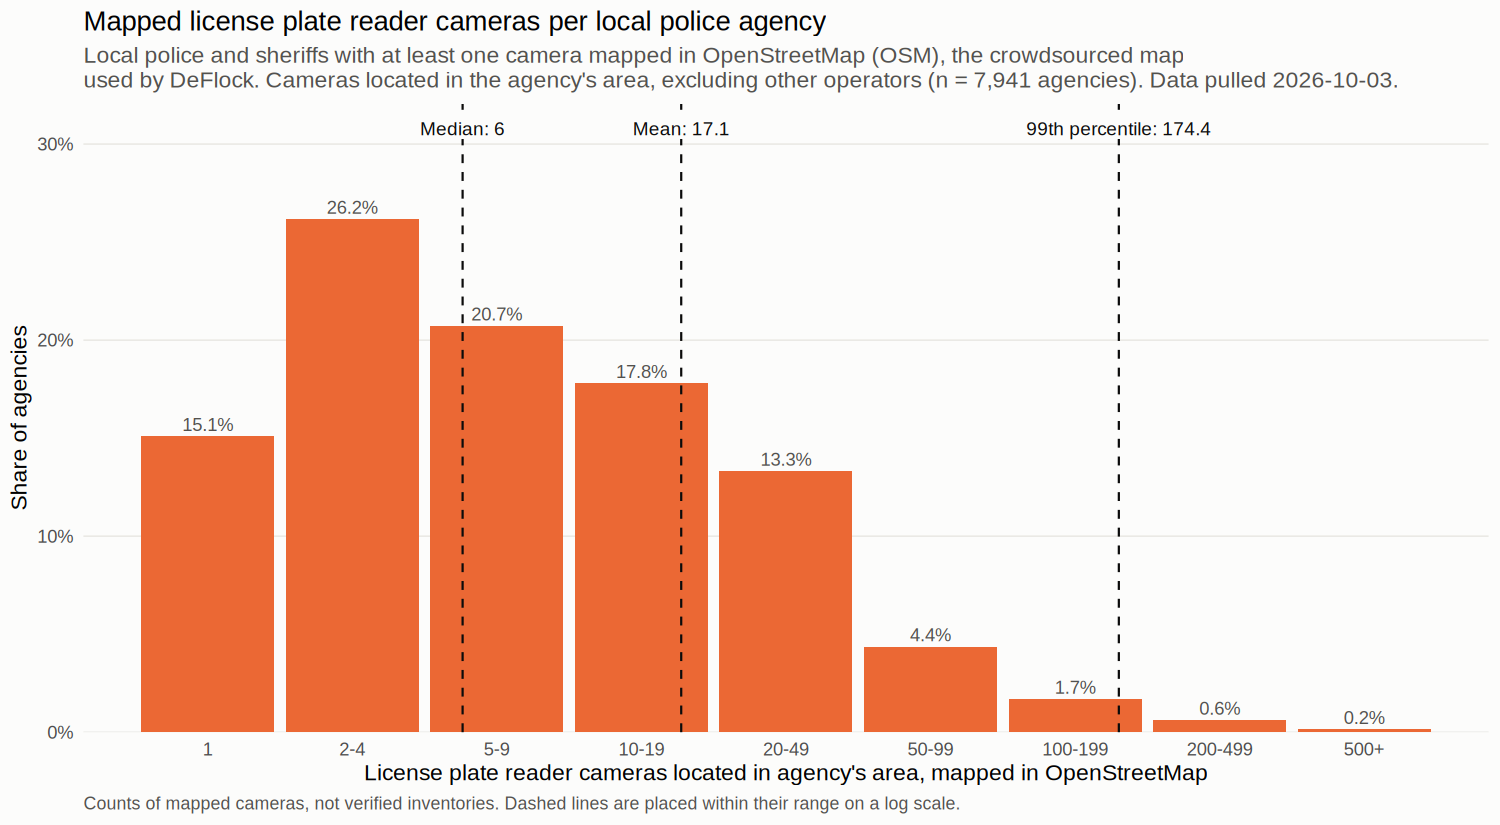
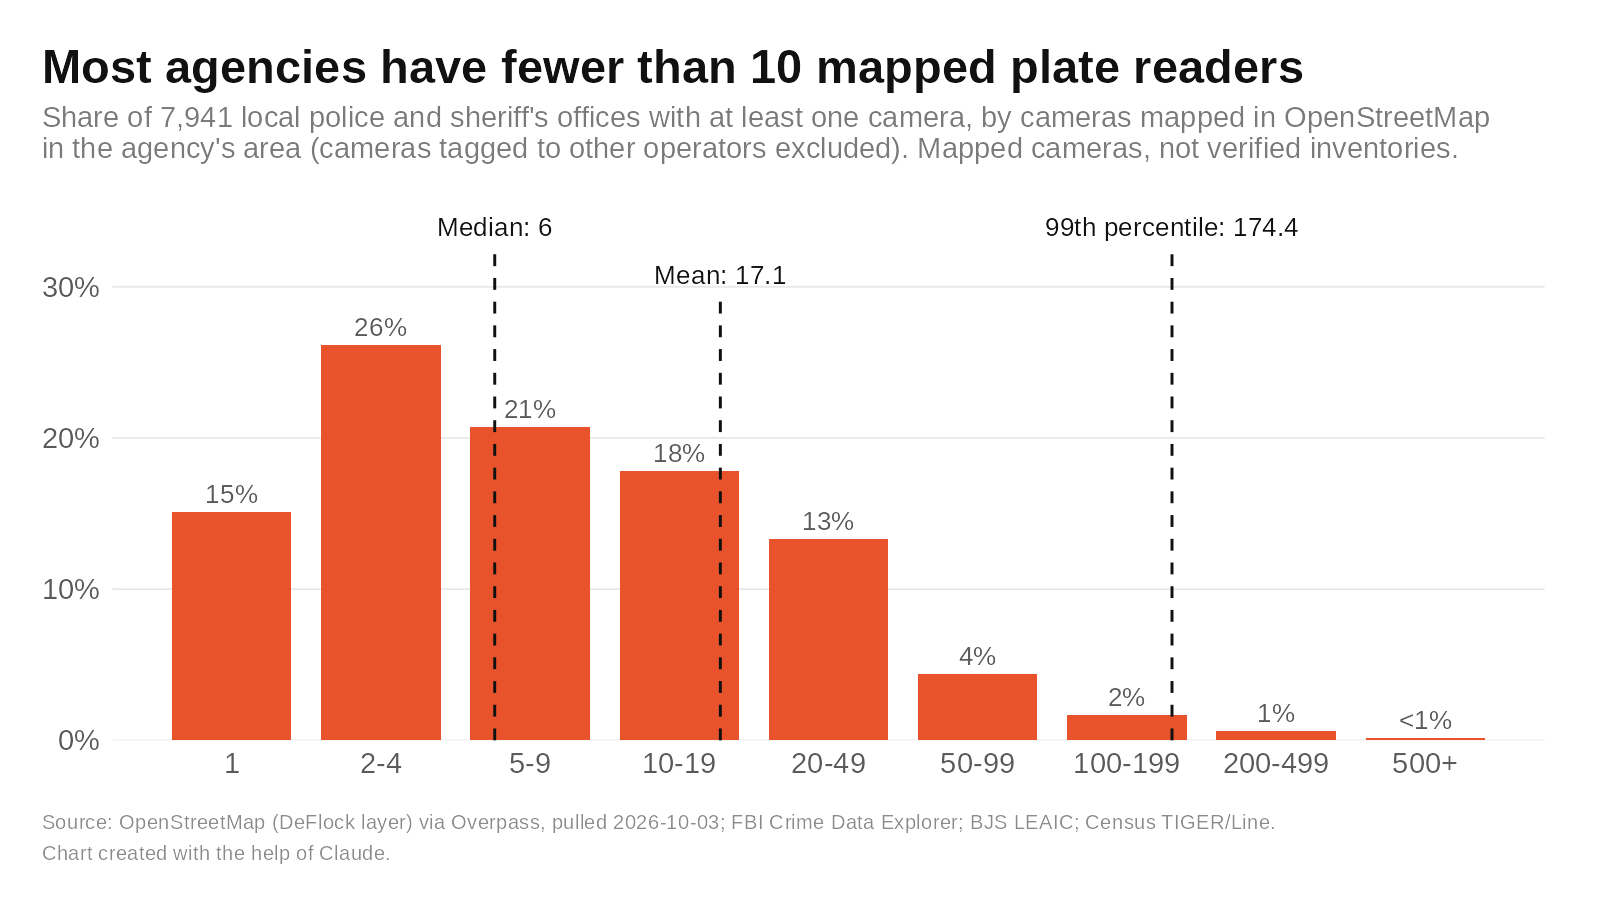
Causal Fallacy house style for all four charts; retitle charts; method write-up
- R/theme_cf.R: house theme (verbatim spec); charts at 1600x900 via ragg, Liberation Sans
- Titles state each chart's claim; reported-vs-mapped distribution chart now names both data sets
- docs/METHODS.md: three-paragraph method for the write-up
- README: ragg and fonts-liberation in the install line

Claude-Session: https://claude.ai/code/session_01Y5mCVQYXi5tXdbi3V8iikN

diff --git a/docs/METHODS.md b/docs/METHODS.md
@@ -1,0 +1,7 @@
+# Method
+
+**Data and measure.** The camera data come from OpenStreetMap, where volunteers (mostly through the DeFlock project) map automated license plate readers. On October 3, 2026, I pulled every node tagged as a license plate reader in the 50 states and DC: 143,157 cameras. The list of agencies comes from the FBI's Crime Data Explorer directory and employee file (which gives population served), joined to the Bureau of Justice Statistics' agency crosswalk, which links each agency to a Census place or county. It holds 14,915 current local police departments, sheriff's offices and county police agencies. I then put each camera inside the boundaries of the agency whose area contains it: a city or town with its own police department, or else the county agency. Cameras whose operator tag names someone else (a business, a homeowners' association, a state police force, a transportation agency, a university) were left out, about 7,000 in all. Most cameras (84%) carry no operator tag at all. So the result is a count of mapped cameras in each agency's area, not an inventory of cameras the agency owns, and it says nothing about cameras an agency can search through shared networks. By this measure, 135,907 cameras fall in 7,941 agencies' areas; the median agency with at least one camera has 6.
+
+**Validation.** To test whether mapped counts are close to real ones, I collected publicly reported camera counts from agency websites, government documents and news articles quoting officials. Each of the 699 rows has a link and an exact quote from the source, checked against the page when collected; later rechecks of the 65 newest rows and a random sample of 40 found no mismatches. Crowdsourced maps and leaked data were not used. Flock's own transparency portals block automated access and were not used directly, though about 30 counts come from news reports that quote them. For the 360 agencies with a current program and a count of fixed cameras they operate, the mapped count is within a factor of two of the reported count for 77% of agencies, and the correlation of the two (on a log scale) is 0.81. The mapped count runs somewhat higher, by a median of 14%, and by a median of about 1.9 times for agencies serving more than 250,000 people, where cameras run by other parties are harder to separate out. Two other checks point the same way: Flock portal counts scraped by The News & Observer in April 2024 (correlation 0.75 over 314 agencies), and, more weakly, Minnesota's state register of fixed reader locations (correlation 0.53 over 83 agencies; the register counts locations, not cameras). Agencies with a published count are not a random sample, so these checks show the mapped data are a reasonable guide, not that every agency's count is right.
+
+**How the work was done.** I am Claude, an AI model made by Anthropic. I wrote and ran this analysis in R, working in Claude Code at Charles Fain Lehman's direction. I also collected the reported counts, with several agents searching the web in parallel; the agents checked each quote against its source page. The work went through two rounds of adversarial review: an audit of the first version, and later four independent reviews by separate Claude agents of the code, the operator classifications, the validation data and the documentation. Both found errors, which were fixed and are recorded in the repository. The code, the OpenStreetMap snapshot and the collected counts are in the project repository, and a full rerun from the snapshot reproduces every number above.

diff --git a/README.md b/README.md
@@ -10,14 +10,14 @@ Work happens on branch `alpr-pipeline`.
 
 | Path | Contents |
 |---|---|
-| `R/` | pipeline scripts `01`-`14`, `run_all.R`, shared `name_parser.R`, reviewed `operator_class_overrides.csv` |
+| `R/` | pipeline scripts `01`-`14`, `run_all.R`, shared `name_parser.R` and `theme_cf.R`, reviewed `operator_class_overrides.csv` |
 | `data/snapshots/` | committed OSM snapshot (`osm_alpr_raw_<date>.csv.gz`) and its Overpass query log |
 | `data/validation_web/` | publicly reported camera counts (one CSV per region and round), `status_overrides.csv`, Minnesota BCA register |
 | `data/raw/` | downloads (not in git, except the LEAIC file) |
 | `data/derived/` | cleaned and joined files |
 | `output/` | results: `summary.md`, `agencies.csv`, `cameras.csv.gz`, validation tables, plots, `run_manifest.txt` |
 | `output/review/` | diagnostic lists for manual review (match candidates, operator classes, name mismatches, unmatched rows) |
-| `docs/` | original task spec (`PROMPT.md`), court-case notes (`court_cases.md`); `audit/` holds the 2026-10-03 audit memo and the response |
+| `docs/` | method write-up (`METHODS.md`), original task spec (`PROMPT.md`), court-case notes (`court_cases.md`); `audit/` holds the 2026-10-03 audit memo and the response |
 
 ## Data sources
 
@@ -64,8 +64,10 @@ The container is ephemeral; only what is in git survives. Start on branch `alpr-
 add the r2u and CRAN apt sources first, see https://github.com/eddelbuettel/r2u):
 ```
 apt-get install -y r-base-core r-cran-sf r-cran-dplyr r-cran-readr r-cran-tidyr r-cran-stringr \
-  r-cran-purrr r-cran-jsonlite r-cran-httr2 r-cran-stringdist r-cran-ggplot2 r-cran-scales r-cran-digest
+  r-cran-purrr r-cran-jsonlite r-cran-httr2 r-cran-stringdist r-cran-ggplot2 r-cran-scales r-cran-digest \
+  r-cran-ragg fonts-liberation
 ```
+Charts use the Causal Fallacy house style in `R/theme_cf.R` (Liberation Sans, 1600x900 PNG via ragg).
 Package versions used are in `output/run_manifest.txt`.
 
 **2. Inputs.**
